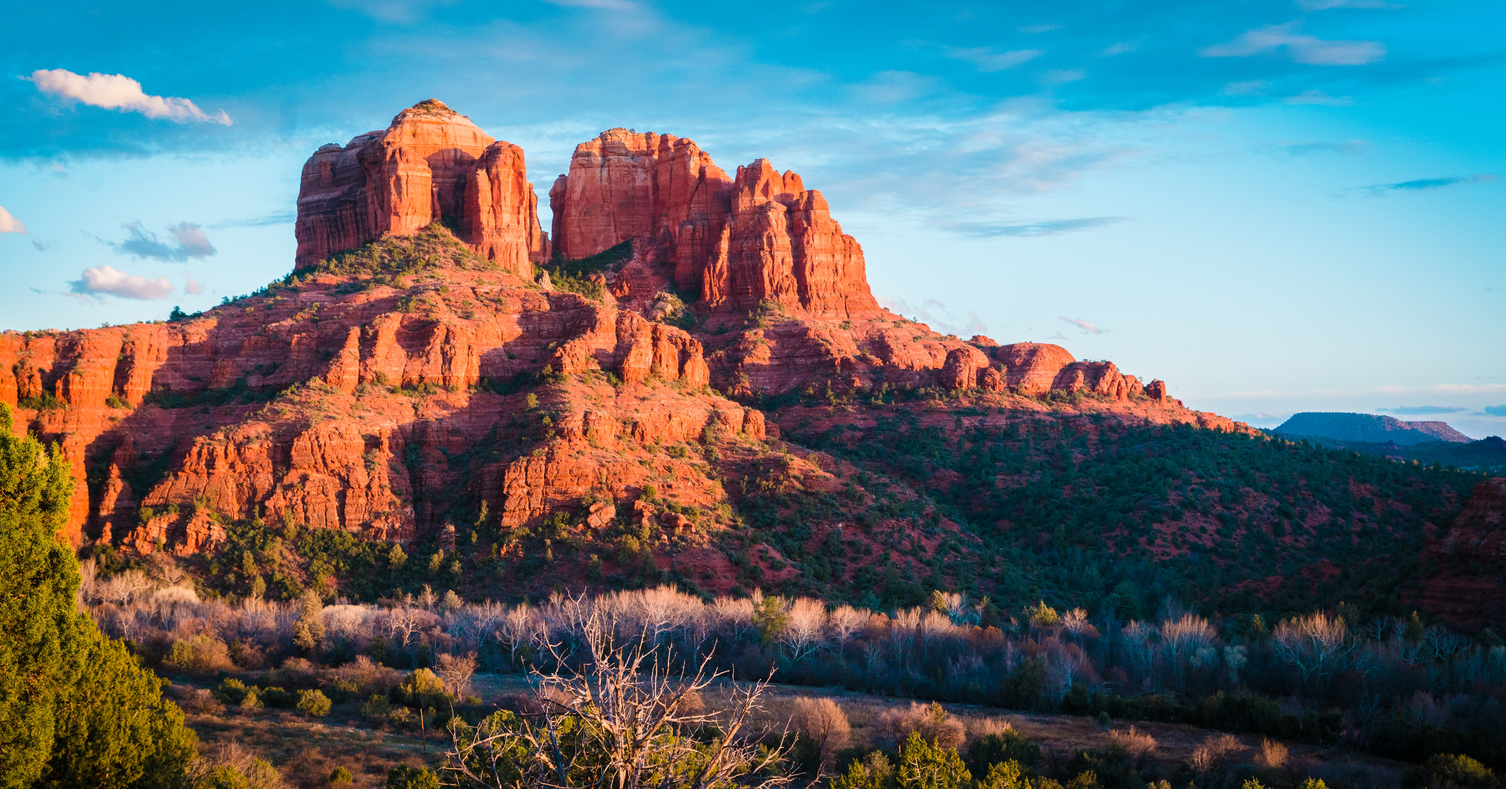
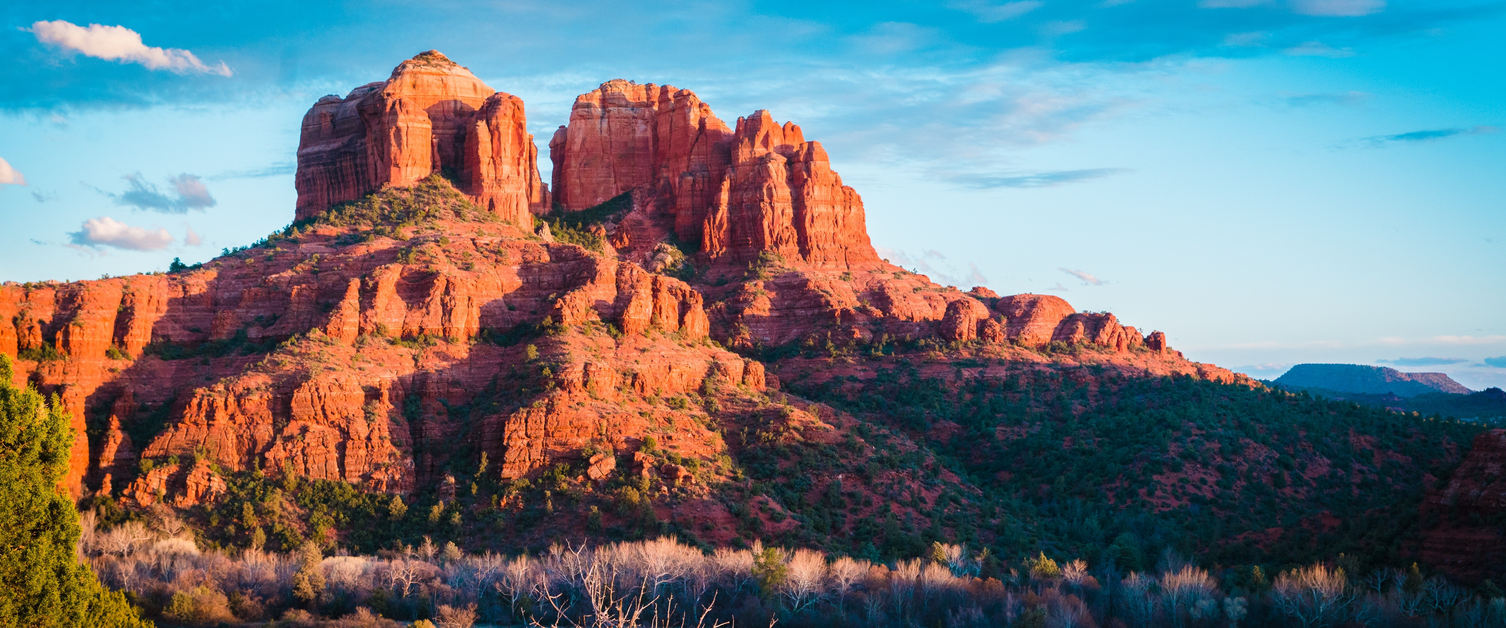
created section in main

diff --git a/styles/main.css b/styles/main.css
@@ -58,6 +58,8 @@ ul li {
     background-image: url("../images/arizona-header.jpg");
     background-size: cover;
     max-width: 100vw;
-    height: 60vh;
+    height: 55vh;
     margin: 0 auto;
 }
+
+/***** MAIN *****/

diff --git a/index.html b/index.html
@@ -32,5 +32,10 @@
   <div class="hero">   
   </div>
 </header>
+<main>
+<section>
+  <h1>Arizona: The Grand Canyon State</h1>
+</section>
+</main>
 </body>
 </html> 
